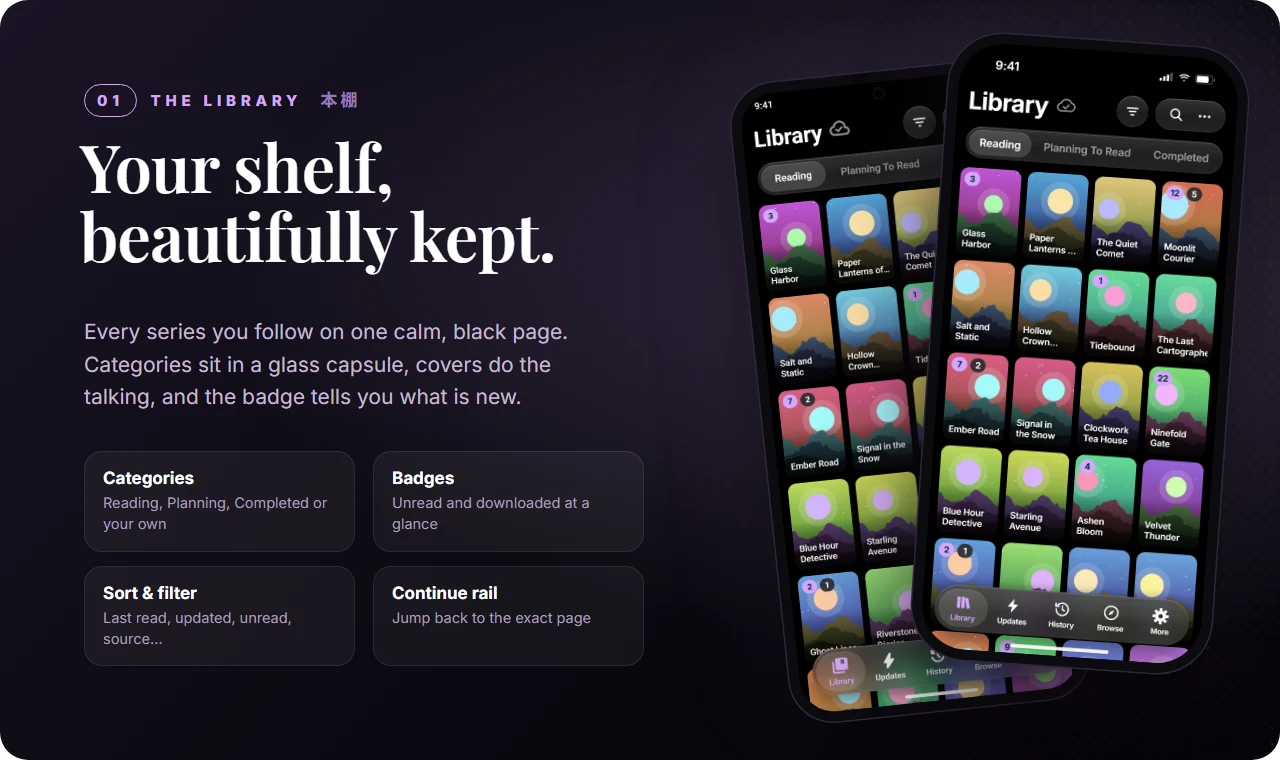
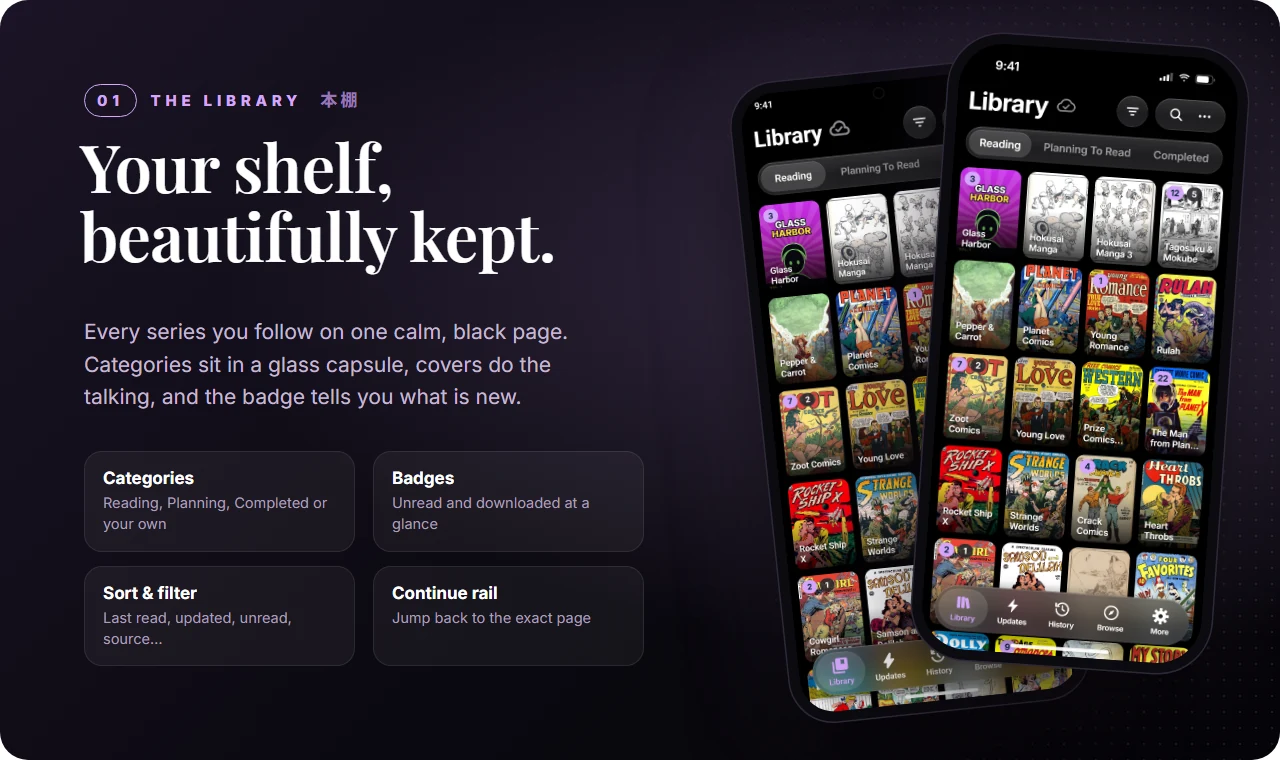
Screenshots use public-domain and CC BY comic covers, with credits

Changed region(s): [[0.5938, 0.2118, 0.9688, 0.9382]]

diff --git a/COVER-CREDITS.md b/COVER-CREDITS.md
@@ -1,0 +1,32 @@
+# Cover art credits
+
+Library covers in the design mockups are public-domain or openly licensed works from Wikimedia Commons. Downscaled to 360 px wide.
+
+| Title | Author | Licence | Source |
+|---|---|---|---|
+| Hokusai Manga | Katsushika Hokusai | Public domain | [Commons](https://commons.wikimedia.org/wiki/File:Hokusai_Manga_01.jpg) |
+| Hokusai Manga 3 | Katsushika Hokusai | Public domain | [Commons](https://commons.wikimedia.org/wiki/File:Hokusai_Manga_03.jpg) |
+| Tagosaku & Mokube | Rakuten Kitazawa(1876-1955) | Public domain | [Commons](https://commons.wikimedia.org/wiki/File:Tagosaku_to_Mokube_no_Tokyo_Kenbutsu.jpg) |
+| Pepper & Carrot | David Revoy | CC BY 4.0 | [Commons](https://commons.wikimedia.org/wiki/File:2018-11-22_vertical-cover-book-three_by-David-Revoy.jpg) |
+| Planet Comics | Joe Doolin | Public domain | [Commons](https://commons.wikimedia.org/wiki/File:Planet_Comics_53.jpg) |
+| Young Romance | Jack Kirby | Public domain | [Commons](https://commons.wikimedia.org/wiki/File:Young_Romance_No_11_1949.JPG) |
+| Rulah | Unknown authorUnknown author | Public domain | [Commons](https://commons.wikimedia.org/wiki/File:Rulah2001.jpg) |
+| Zoot Comics | Matt Baker | Public domain | [Commons](https://commons.wikimedia.org/wiki/File:Zoot_Comics_No_14_Fox_Features_Syndicate,_1948.jpg) |
+| Young Love | Jack Kirby and Joe Simon | Public domain | [Commons](https://commons.wikimedia.org/wiki/File:YoungLove001.jpg) |
+| Prize Comics Western | Jack Kirby (pencils) and Joe Simon (inks) | Public domain | [Commons](https://commons.wikimedia.org/wiki/File:Prize_Comics_Western_v9_83.jpg) |
+| The Man from Planet X | Fawcett Comics/United Artists | Public domain | [Commons](https://commons.wikimedia.org/wiki/File:ThemanfromplanetXFawcett.png) |
+| Rocket Ship X | Unknown authorUnknown author | Public domain | [Commons](https://commons.wikimedia.org/wiki/File:Rocket_Ship_X_comic_book.jpg) |
+| Strange Worlds | Everett Raymond Kinstler | Public domain | [Commons](https://commons.wikimedia.org/wiki/File:Strange_Worlds_3.jpg) |
+| Crack Comics | Art by Reed Crandall. | Public domain | [Commons](https://commons.wikimedia.org/wiki/File:Crack_Comics_-49,_Cover.jpg) |
+| Heart Throbs | Bill Ward (cartoonist) | Public domain | [Commons](https://commons.wikimedia.org/wiki/File:Heart_Throbs_No._1.jpg) |
+| Cowgirl Romances | Unknown authorUnknown author | Public domain | [Commons](https://commons.wikimedia.org/wiki/File:Cowgirl_Romances_3.jpg) |
+| Samson and Delilah | Lee J. Ames | Public domain | [Commons](https://commons.wikimedia.org/wiki/File:Samson_and_Delilah_01.jpg) |
+| Hokusai Manga 12 | 葛飾北斎 | Public domain | [Commons](https://commons.wikimedia.org/wiki/File:Hokusai_manga_12_tsurinomeijin.jpg) |
+| Four Favorites | Sam Singer | Public domain | [Commons](https://commons.wikimedia.org/wiki/File:FourFavorites3101.jpg) |
+| Polly Pigtails | Vic Herman | Public domain | [Commons](https://commons.wikimedia.org/wiki/File:PollyPigtailsNo28.jpg) |
+| Teen-Age Romances | Matt Baker | Public domain | [Commons](https://commons.wikimedia.org/wiki/File:Teen-AgeRomances1949january14issue1.jpg) |
+| Rokurokubi | Katsushika Hokusai | Public domain | [Commons](https://commons.wikimedia.org/wiki/File:Hokusai_rokurokubi.jpg) |
+| My Story | Unknown authorUnknown author | Public domain | [Commons](https://commons.wikimedia.org/wiki/File:My_Story_5.jpg) |
+| Dotty | Unknown authorUnknown author | Public domain | [Commons](https://commons.wikimedia.org/wiki/File:DottyNo39.jpg) |
+
+Pepper & Carrot is by David Revoy, licensed CC BY 4.0 (https://creativecommons.org/licenses/by/4.0/); the other covers are in the public domain or CC0.

diff --git a/THIRD-PARTY-NOTICES.md b/THIRD-PARTY-NOTICES.md
@@ -34,6 +34,9 @@ https://www.mozilla.org/MPL/2.0/
 
 - **Mozilla Rhino 1.7.15** (JavaScript engine for Bokumi extensions), used unmodified. The source code is available at https://github.com/mozilla/rhino/tree/Rhino1_7_15_Release.
 
+## Artwork in the screenshots
+The library covers in the app screenshots are public-domain or openly licensed works from Wikimedia Commons: Katsushika Hokusai (Hokusai Manga), Rakuten Kitazawa (Tagosaku to Mokube no Tokyo Kenbutsu), and vintage US comic-book covers whose copyright was not renewed. *Pepper & Carrot* (book three cover) is by David Revoy, [CC BY 4.0](https://creativecommons.org/licenses/by/4.0/). Per-cover sources: https://github.com/devCaspian-hash/Bokumi-App/blob/main/COVER-CREDITS.md
+
 ---
 
 The full text of each license is available at the links above and in the source distributions of each project.
